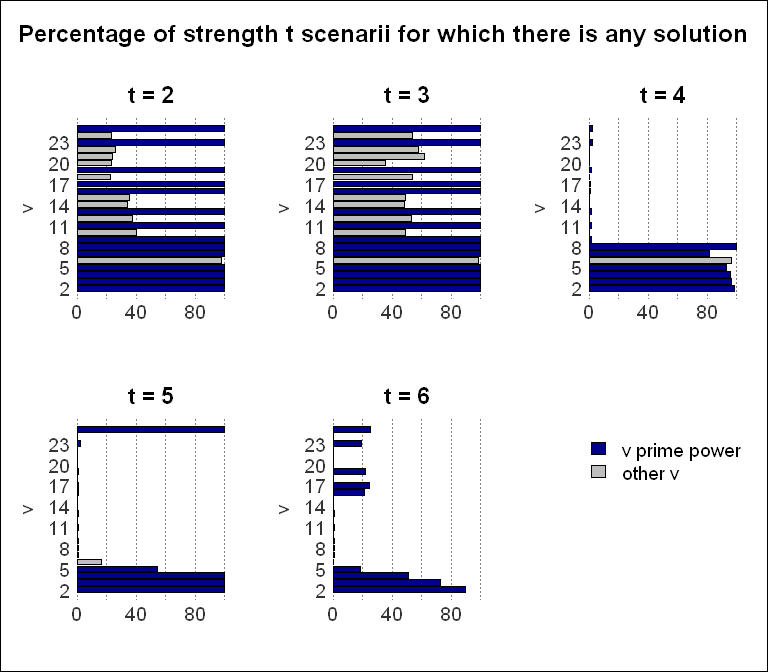
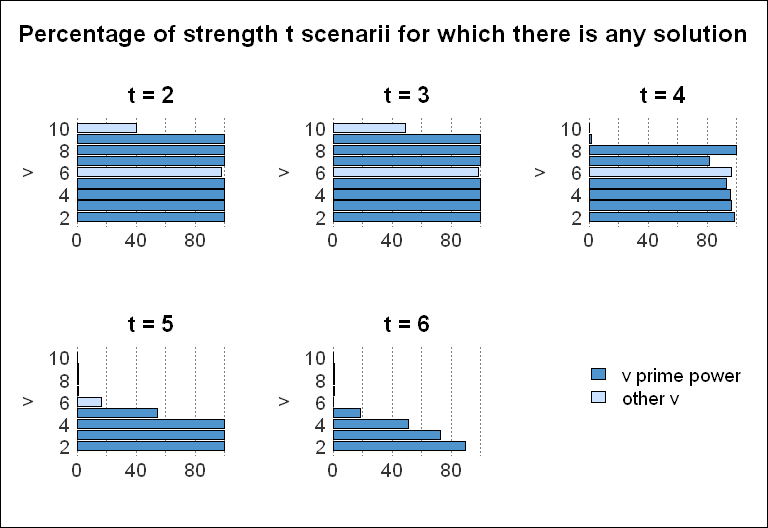
updated README status to focus on relevant numbers of levels

diff --git a/README.md b/README.md
@@ -32,7 +32,7 @@ devtools::install_github("ugroempi/CAs")
 
 *At the end of this README file, charts depict the current status of
 array implementation relative to the empirical covering array numbers
-(eCANs) of the Colbourn tables.*
+(eCANs) of the Colbourn tables, for v up to 10.*
 
 This package constructs covering arrays, i.e., arrays that cover all
 $`t`$-ary combinations of a set of factors at least once. The focus is
